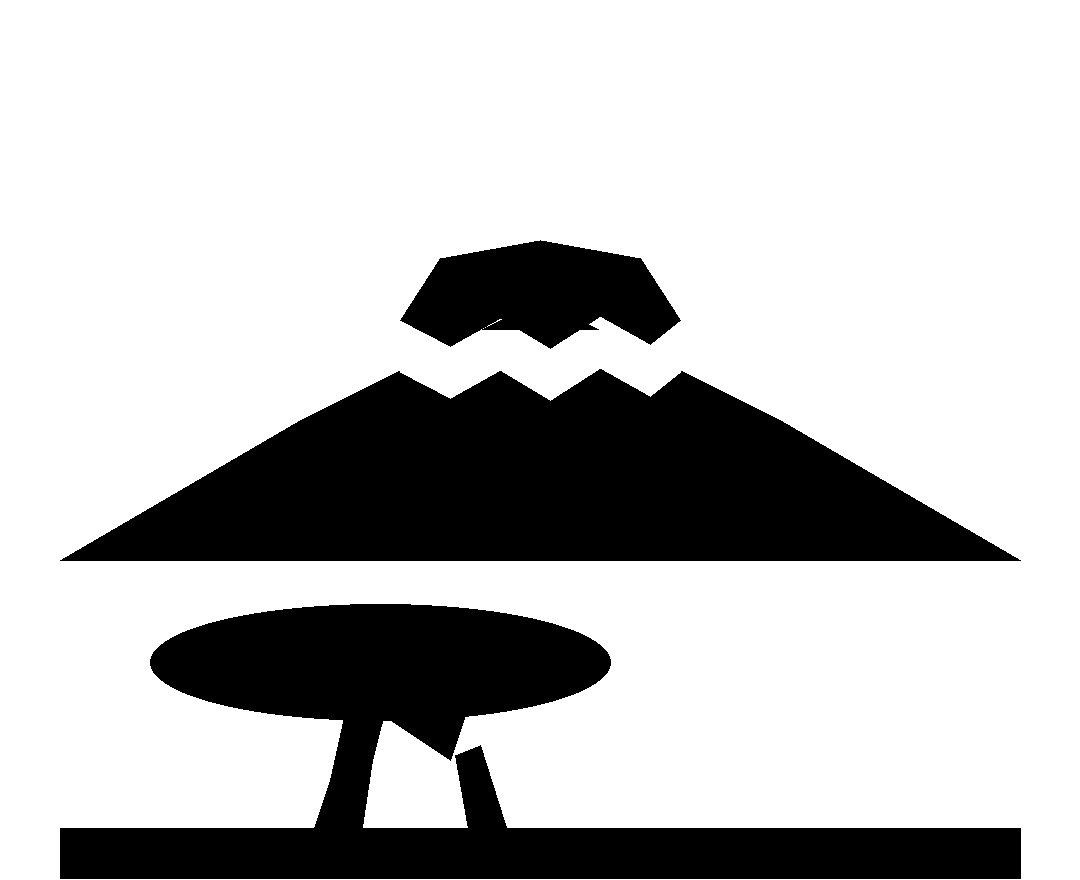
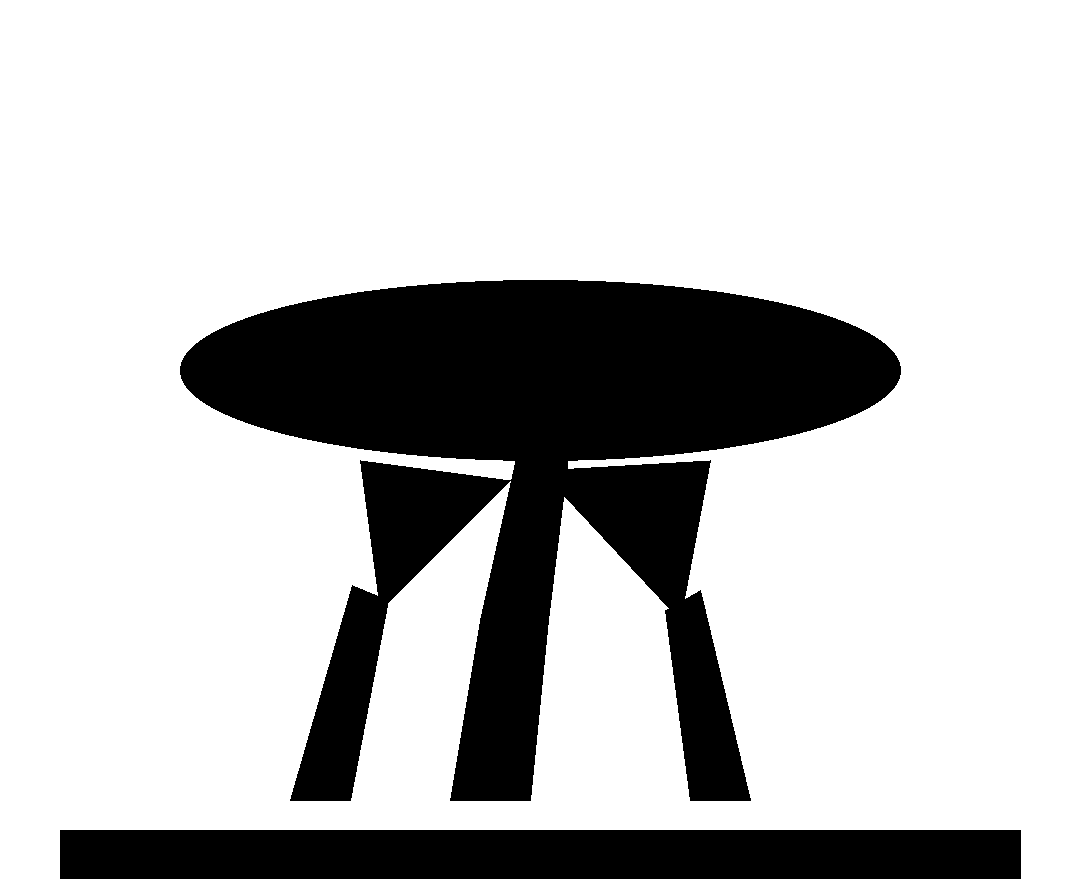
Jeepney grounded, Kilimanjaro cut — batch 7 revised per Eric
"ground the jeepney cut kilonmonjaro". The road runs 42px under the
wheels (after first landing 20px close, then falling off a 720px
canvas entirely); the acacia stands alone now, larger and
three-limbed, the mountain gone. Zero flags on both. Batch 7 still
pending his verdicts.

Changed region(s): [[0.0611, 0.2761, 0.9472, 0.9511]]

diff --git a/tools/draw_wave15.py b/tools/draw_wave15.py
@@ -29,7 +29,7 @@ def circle(d, cx, cy, r, fill):
 
 
 def jeepney():
-    im, d = canvas(1120, 720)
+    im, d = canvas(1120, 830)
     # long body with the flat hood
     d.rounded_rectangle([80, 220, 1040, 540], radius=60, fill=BLACK)
     d.rounded_rectangle([40, 300, 140, 540], radius=40, fill=BLACK)   # hood nose
@@ -49,6 +49,8 @@ def jeepney():
         circle(d, cx, 590, 90, BLACK)
         circle(d, cx, 590, 48, WHITE)
         circle(d, cx, 590, 18, BLACK)
+    # the road under it (Eric: "ground the jeepney")
+    d.rectangle([30, 722, 1090, 772], fill=BLACK)   # 42px under the wheels
     return im
 
 
@@ -76,20 +78,17 @@ def manekineko():
 
 def acacia():
     im, d = canvas(1080, 880)
-    # Kilimanjaro: broad shield cone behind, snowcap across the wolf-gap
-    d.polygon([(540, 300), (300, 420), (60, 560), (1020, 560), (780, 420)], fill=BLACK)
-    zig = [(400, 372), (450, 398), (500, 370), (550, 400), (600, 368), (650, 396), (680, 372)]
-    d.polygon(zig + [(680, 330), (400, 330)], fill=WHITE)
-    cap = [(x, y - 52) for (x, y) in zig]
-    d.polygon(cap + [(640, 258), (540, 240), (440, 258)], fill=BLACK)
-    # the acacia: flat-top canopy on forking trunk, in front on the plain
-    d.ellipse([150, 604, 610, 720], fill=BLACK)   # canopy slab, 44px under the mountain's base edge
-    d.polygon([(350, 690), (330, 780), (310, 840), (360, 840), (372, 760), (390, 690)],
+    # Kilimanjaro CUT (Eric, 2026-08-01) — the acacia stands alone,
+    # larger, centred on its plain
+    d.ellipse([180, 280, 900, 460], fill=BLACK)   # canopy slab
+    d.polygon([(520, 440), (480, 620), (450, 800), (530, 800), (548, 620), (570, 440)],
               fill=BLACK)                                              # trunk
-    d.polygon([(360, 700), (450, 760), (470, 700)], fill=BLACK)        # fork
-    d.polygon([(455, 755), (470, 840), (510, 840), (480, 745)], fill=BLACK)
+    d.polygon([(540, 470), (680, 620), (710, 460)], fill=BLACK)        # fork limb
+    d.polygon([(665, 610), (690, 800), (750, 800), (700, 590)], fill=BLACK)
+    d.polygon([(510, 480), (380, 610), (360, 460)], fill=BLACK)        # fork limb
+    d.polygon([(388, 600), (350, 800), (290, 800), (352, 585)], fill=BLACK)
     # the plain
-    d.rectangle([60, 828, 1020, 878], fill=BLACK)
+    d.rectangle([60, 830, 1020, 878], fill=BLACK)
     return im
 
 
